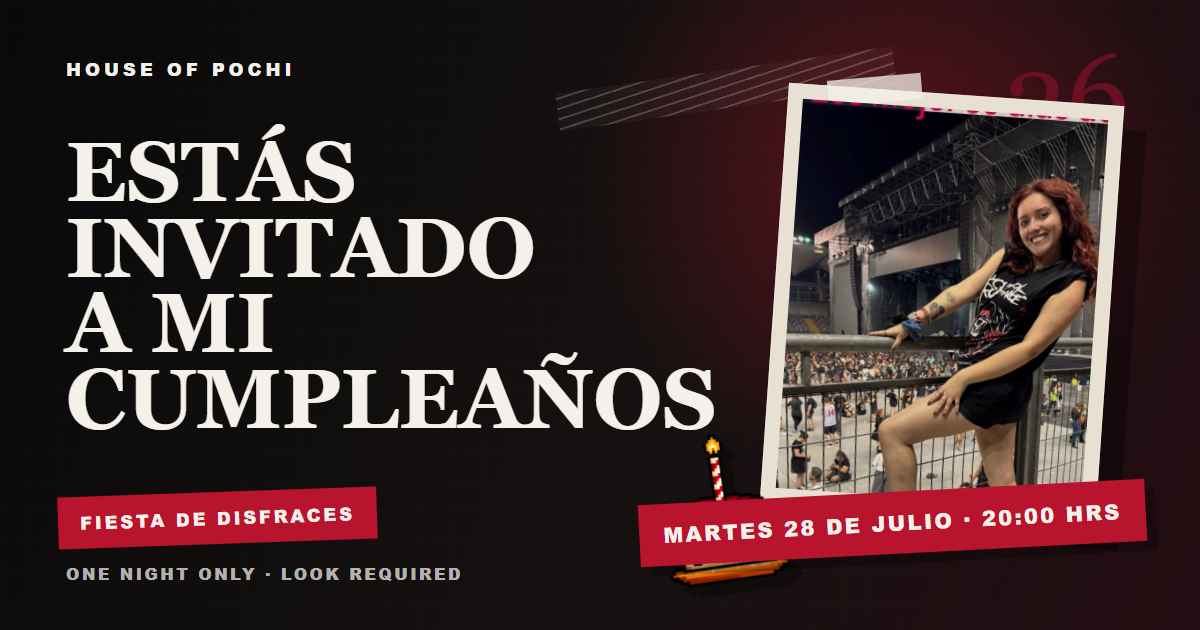
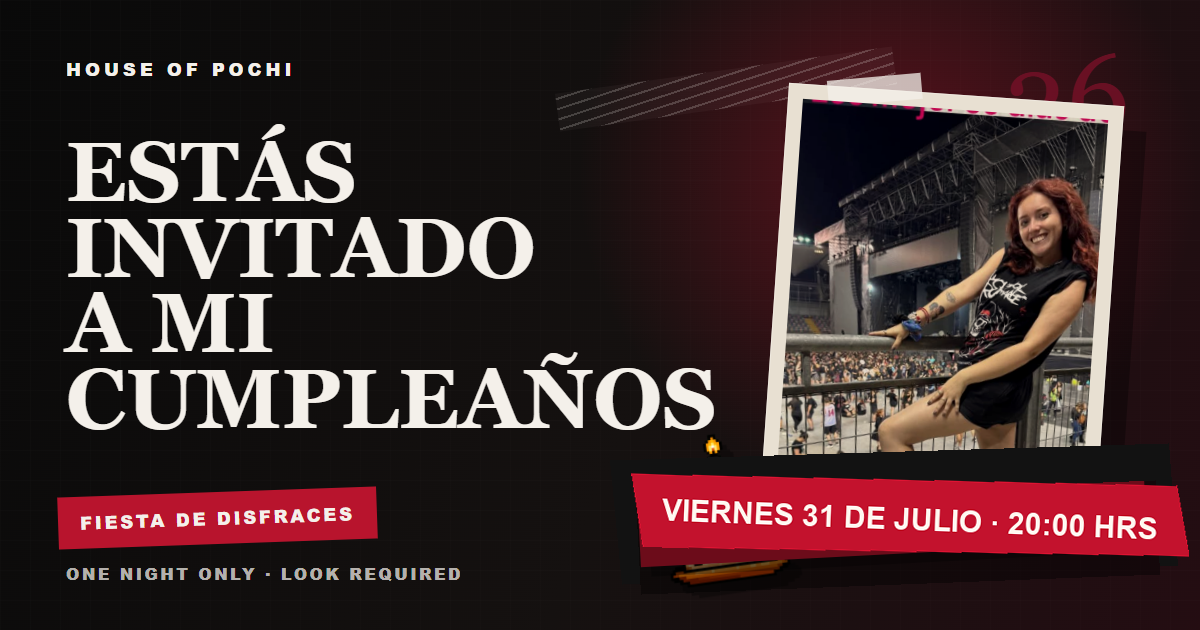
Improve Instagram link preview image

Changed region(s): [[0.5242, 0.6937, 1.0, 0.9349]]

diff --git a/site/index.html b/site/index.html
@@ -6,19 +6,20 @@
     <meta name="description" content="Invitación editorial para una fiesta de cumpleaños de disfraces.">
     <meta name="theme-color" content="#0d0d0d">
     <meta property="og:type" content="website">
+    <meta property="og:url" content="https://gatitapochi.cl/">
     <meta property="og:site_name" content="House of Pochi">
     <meta property="og:title" content="Estás invitado a mi cumpleaños">
     <meta property="og:description" content="House of Pochi · fiesta de disfraces · viernes 31 de julio · 20:00 hrs.">
-    <meta property="og:image" content="https://gatitapochi.cl/assets/og-invitation.png?v=20260702-og-invitation">
-    <meta property="og:image:secure_url" content="https://gatitapochi.cl/assets/og-invitation.png?v=20260702-og-invitation">
-    <meta property="og:image:type" content="image/png">
+    <meta property="og:image" content="https://gatitapochi.cl/assets/og-invitation-instagram.jpg">
+    <meta property="og:image:secure_url" content="https://gatitapochi.cl/assets/og-invitation-instagram.jpg">
+    <meta property="og:image:type" content="image/jpeg">
     <meta property="og:image:width" content="1200">
     <meta property="og:image:height" content="630">
     <meta property="og:image:alt" content="Estás invitado a mi cumpleaños - House of Pochi">
     <meta name="twitter:card" content="summary_large_image">
     <meta name="twitter:title" content="Estás invitado a mi cumpleaños">
     <meta name="twitter:description" content="House of Pochi · fiesta de disfraces · viernes 31 de julio · 20:00 hrs.">
-    <meta name="twitter:image" content="https://gatitapochi.cl/assets/og-invitation.png?v=20260702-og-invitation">
+    <meta name="twitter:image" content="https://gatitapochi.cl/assets/og-invitation-instagram.jpg">
     <title>House of Pochi</title>
     <link rel="icon" type="image/png" sizes="32x32" href="assets/favicon-32.png?v=20260702-cake-icon">
     <link rel="apple-touch-icon" sizes="180x180" href="assets/apple-touch-icon.png?v=20260702-cake-icon">